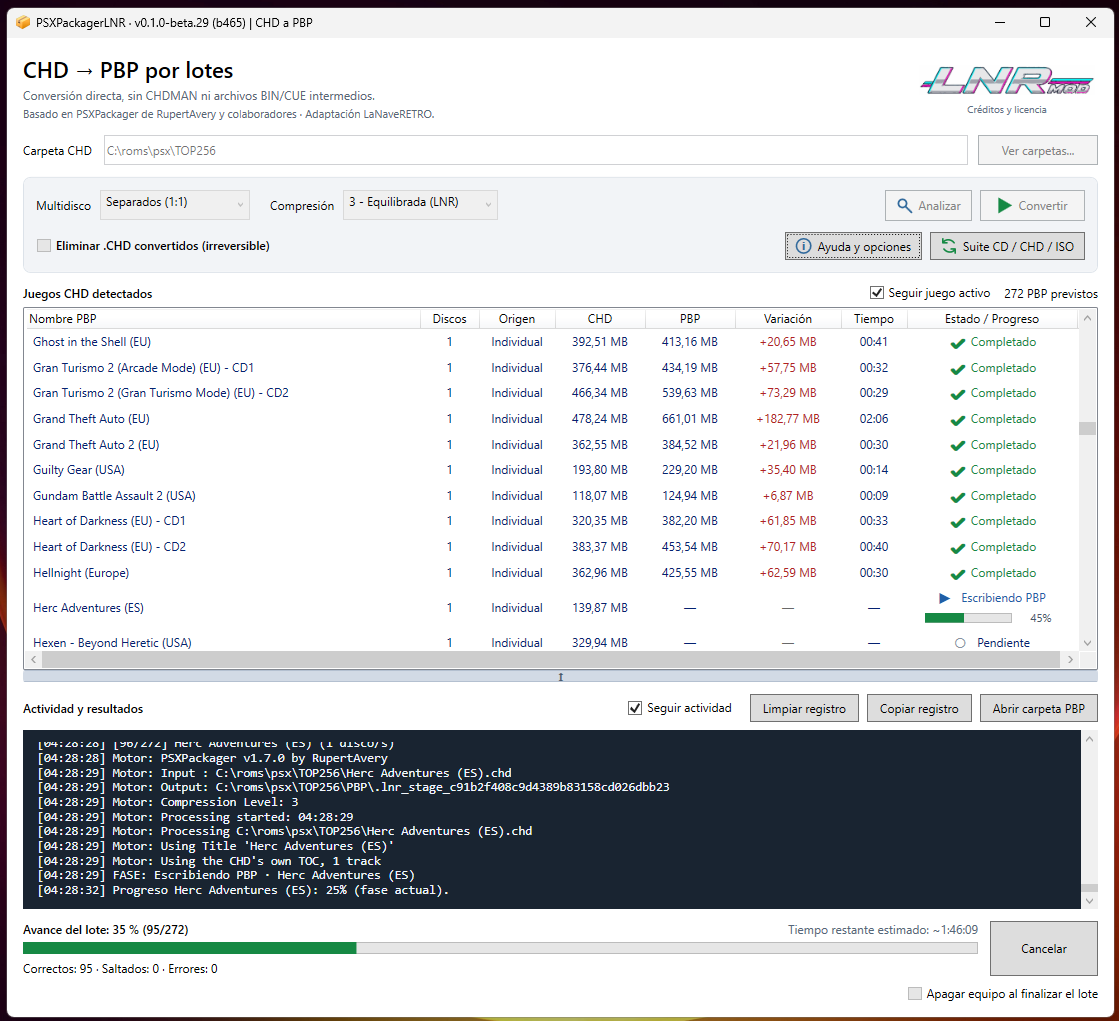
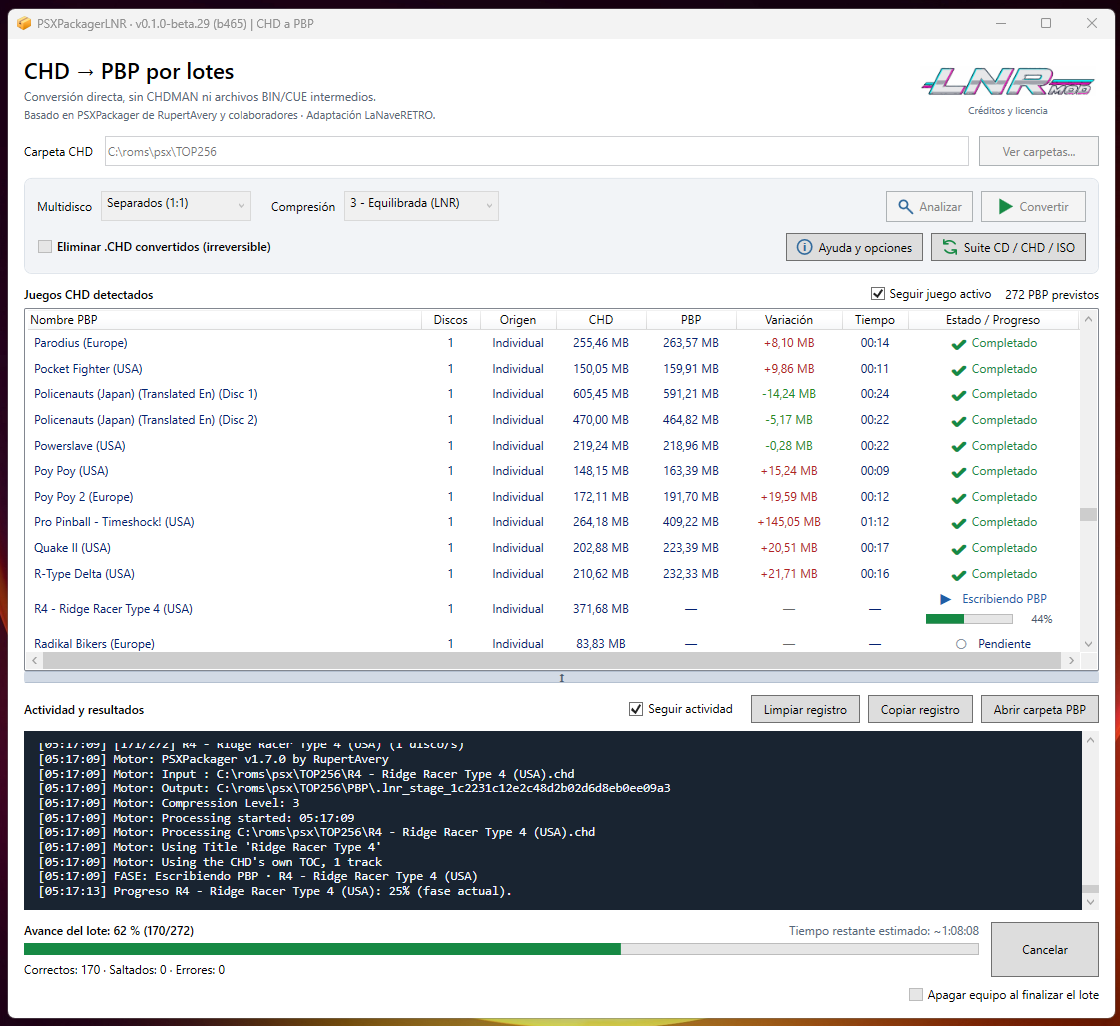
docs(lnr): replace original beta.29 GUI and compression screenshots; refresh public captions

diff --git a/README.md b/README.md
@@ -46,9 +46,9 @@ de los autores originales.
 
 ## PSXPackagerLNR en funcionamiento: procesamiento real por lotes
 
-![Captura real de PSXPackagerLNR beta.29 convirtiendo juegos PS1 de CHD a PBP por lotes, con estados por juego, progreso global y registro de actividad](docs/images/psxpackagerlnr-beta29-procesamiento-por-lotes.png)
+![Captura original de PSXPackagerLNR beta.29: 170 de 272 PBP completados, variaciones CHD/PBP positivas y negativas, progreso y registro](docs/images/psxpackagerlnr-beta29-procesamiento-por-lotes.png)
 
-*Captura aportada por LaNaveRETRO de la beta.29 (build 465) ejecutándose en Windows: un lote de **272 PBP previstos**, con **95 trabajos completados** y el **35 % del lote** procesado en el momento de la imagen. Se aprecian la conversión activa, el progreso individual, la consola de actividad y la estimación del tiempo restante. La versión pública descargable corresponde a la compilación 466.*
+*Captura original de LaNaveRETRO con la **beta.29 build 465** en Windows: **272 PBP previstos, 170 completados (62 %)** en ese instante. Se aprecian el juego activo, el progreso individual y global, el registro, el tiempo restante y tanto **variaciones negativas (PBP menor que CHD)** como positivas (PBP mayor que CHD). La **build pública descargable es la 466**; esta sustitución es solo documental.*
 
 ## Próximo desarrollo beta.30 — conversiones simultáneas
 
@@ -96,11 +96,9 @@ permite comparar el tamaño de los archivos BIN y CHD del mismo título.
 | PBP — nivel 9 | **274.000 KB** |
 | CUE (archivo auxiliar de pistas) | 1 KB |
 
-![Captura original de Actua Soccer 3 (Europe): tamaños de PBP en niveles 1, 3, 5 y 9, y comparación con BIN, CHD y CUE](docs/images/psxpackagerlnr-niveles-compresion-actua-soccer3.png)
+![Captura original ordenada de Actua Soccer 3 (Europe): BIN, PBP de niveles 1/3/5/9, CHD y CUE con sus tamaños en Windows](docs/images/psxpackagerlnr-niveles-compresion-actua-soccer3.png)
 
-*Captura real aportada por LaNaveRETRO. Los tamaños están transcritos
-**tal como los presenta el Explorador de Windows en KB**, que los
-redondea; no deben confundirse con bytes exactos.*
+*Captura original más clara y ordenada aportada por LaNaveRETRO: BIN, PBP en niveles 1/3/5/9, CHD y CUE del mismo juego. Los tamaños se presentan **tal como los muestra el Explorador de Windows en KB** (redondeados, no bytes exactos). La imagen compara tamaños, **no velocidades de carga en PSP**.*
 
 **Lo que enseñan estas mediciones:**
 

diff --git a/LNR/GUI-AYUDA.md b/LNR/GUI-AYUDA.md
@@ -21,9 +21,9 @@ firmware/BIOS **no** están incluidos.
 
 ### Captura real de una conversión por lotes
 
-![Interfaz PSXPackagerLNR beta.29 durante la conversión de 272 juegos de PS1 desde CHD a PBP](../docs/images/psxpackagerlnr-beta29-procesamiento-por-lotes.png)
+![Interfaz PSXPackagerLNR beta.29: 170 de 272 conversiones y variaciones CHD a PBP positivas y negativas](../docs/images/psxpackagerlnr-beta29-procesamiento-por-lotes.png)
 
-*Ejemplo real de LaNaveRETRO: beta.29 (build 465), con 95 de 272 trabajos completados en el momento de la captura. La lista muestra cada juego, tiempo y estado; debajo se ven el registro de actividad, el progreso total y el tiempo restante estimado.*
+*Ejemplo real de LaNaveRETRO, **beta.29 build 465**: **170 de 272 trabajos completados (62 %)**. La tabla muestra **variación negativa** (PBP menor que CHD) y positiva (PBP mayor que CHD); también figuran juego activo, tiempo por juego, registro, progreso global y ETA. La build pública de beta.29 es la **466**.*
 
 ## 2. Cómo abrir PSXPackagerLNR (Windows)
 
@@ -101,7 +101,9 @@ no se ha demostrado que sea siempre el nivel más rápido al reproducir.
 
 ### Prueba con tamaños reales: Actua Soccer 3 (Europe)
 
-![Captura de tamaños de Actua Soccer 3 entre compresiones 1, 3, 5 y 9 y formatos BIN/CHD](../docs/images/psxpackagerlnr-niveles-compresion-actua-soccer3.png)
+![Captura ordenada de Actua Soccer 3: BIN, PBP niveles 1/3/5/9, CHD y CUE con tamaños reales mostrados por Windows](../docs/images/psxpackagerlnr-niveles-compresion-actua-soccer3.png)
+
+*Captura original ordenada, con tamaños en KB redondeados por Windows. Acredita las diferencias de tamaño, no tiempos de carga.*
 
 | Formato / compresión | Tamaño visible en Windows |
 | --- | ---: |

diff --git a/CHANGELOG-LNR.md b/CHANGELOG-LNR.md
@@ -15,6 +15,13 @@ La autoria original y la licencia MIT se conservan.
 
 ## Documentación pública ampliada — 17 noviembre 2026 (sin cambios de binarios)
 
+### Nuevas capturas originales en la documentación (17/11/2026)
+
+- Sustituida la captura de la GUI beta.29 build 465 por la nueva, con **272 PBP previstos y 170 completados (62 %)**, mostrando variaciones CHD→PBP negativas y positivas, seguimiento del juego activo, registro y ETA global.
+- Sustituida la comparación de *Actua Soccer 3 (Europe)* por la imagen original mejor ordenada: BIN, PBP niveles 1/3/5/9, CHD y CUE. Se conservan los valores medidos; las capturas solo acreditan tamaños, no tiempos de carga.
+- Se conservan **los nombres y las rutas** de ambos PNG para no romper enlaces. README, manual y descripción pública beta.29 actualizados.
+- Cambio **solo documental**: sin modificar los ZIP, etiqueta beta.29, binarios, motor, `master` ni acceso directo aprobado.
+
 ### Corrección documental posterior: prueba completa de compresión
 
 - Incorporada la **captura original de Actua Soccer 3 (Europe)** con
